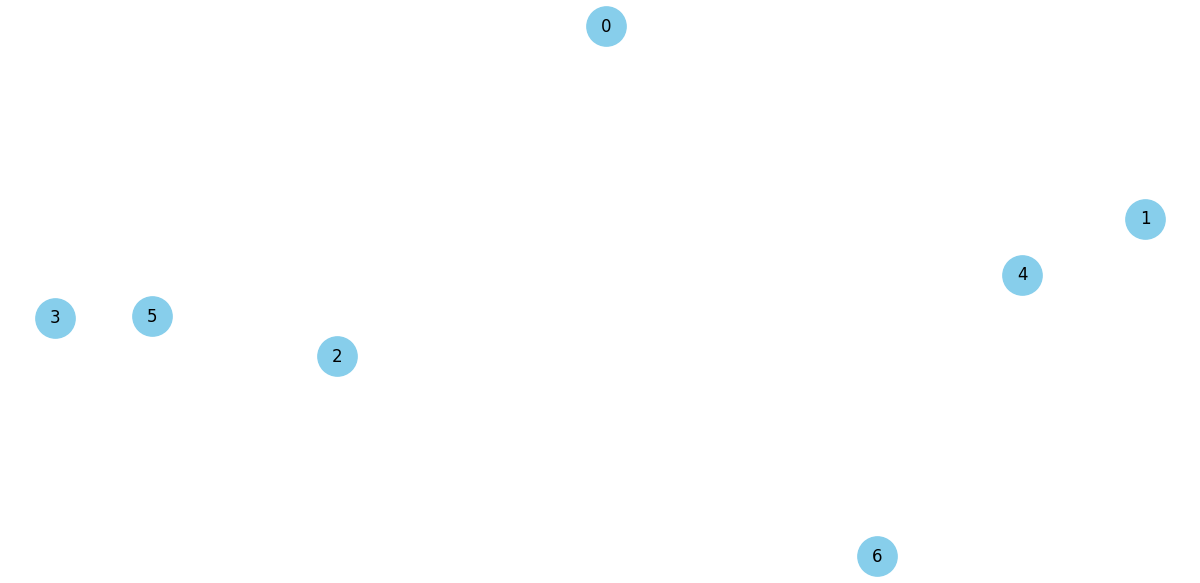
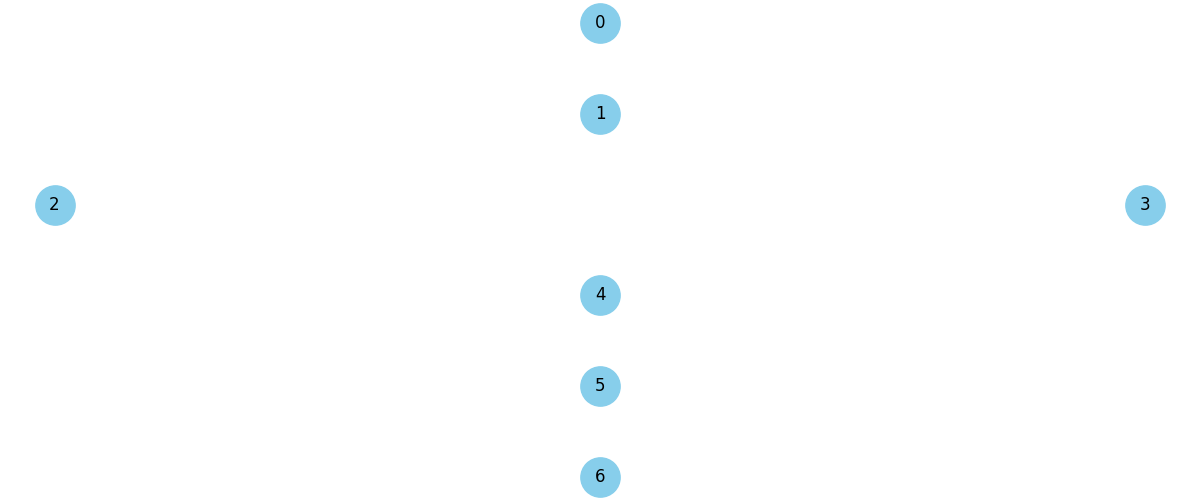
bug fixed

diff --git a/neuron_connectivity.py b/neuron_connectivity.py
@@ -1,5 +1,3 @@
-# latency_corr_graph.py
-
 import os
 import numpy as np
 import matplotlib.pyplot as plt
@@ -78,16 +76,53 @@ def draw_graph(neuron_count, matrix, label, fname, threshold=0.5):
             if abs(value) > threshold:
                 G.add_edge(i, j, weight=value)
 
-    pos = nx.spring_layout(G, seed=42, k=10 / np.sqrt(neuron_count), iterations=100)
-    for i in pos:
-        x, y = pos[i]
-        pos[i] = (x, 0.7 * y - 0.3 * i)  # Small index goes up
+    # === Electrode-based layered layout ===
+    electrode_layers = {}
+    for idx, (tt, _) in enumerate(neuron_map):  # use global neuron_map
+        if tt not in electrode_layers:
+            electrode_layers[tt] = []
+        electrode_layers[tt].append(idx)
 
+    pos = {}
+    sorted_electrodes = sorted(electrode_layers.keys())
+    layer_y = {}
+    for layer_idx, tt in enumerate(sorted_electrodes):
+        neurons = electrode_layers[tt]
+        x_start = - (len(neurons) - 1) / 2
+        y = -layer_idx
+        layer_y[tt] = y
+        for i, nid in enumerate(neurons):
+            x = x_start + i
+            pos[nid] = (x, y)
+
+    # === Draw Graph with Edge Width by Correlation ===
     edge_labels = nx.get_edge_attributes(G, 'weight')
-    plt.figure(figsize=(12, neuron_count / 1.2))  # zoom in
-    nx.draw(G, pos, with_labels=True, node_color='skyblue', edge_color='gray', node_size=800)
-    nx.draw_networkx_edge_labels(G, pos, edge_labels={k: f"{v:.2f}" for k, v in edge_labels.items()}, font_size=8)
+    weights = []
+    for (u, v) in G.edges():
+        w = abs(G[u][v]['weight'])
+        weights.append(0.1 + 10 * w)  # range：0.5 ~ 4.0
+
+    plt.figure(figsize=(12, max(5, neuron_count / 2.5)))
+    nx.draw(
+        G, pos,
+        with_labels=True,
+        node_color='skyblue',
+        edge_color='gray',
+        width=weights,
+        node_size=800
+    )
+    nx.draw_networkx_edge_labels(
+        G, pos,
+        edge_labels={k: f"{v:.2f}" for k, v in edge_labels.items()},
+        font_size=8
+    )
+
+    # === Add Electrode Labels ===
+    for tt in sorted_electrodes:
+        plt.text(-5, layer_y[tt], f"TT{tt}", fontsize=10, verticalalignment='center', horizontalalignment='right')
+
     plt.title(label)
+    plt.axis('off')
     plt.tight_layout()
     plt.savefig(fname)
     plt.close()
@@ -99,6 +134,7 @@ def analyze_file(fname):
         print("[WARN] Empty session")
         return
 
+    global neuron_map
     neuron_map = build_neuron_map(T[0])
     all_spikes, stim_ons = [], []
     for trial in T:
@@ -114,9 +150,12 @@ def analyze_file(fname):
 
     log_corr = compute_log_corr_matrix(all_spikes, stim_ons, window=(0, 0.5))
     neuron_count = len(neuron_map)
-    draw_graph(neuron_count, log_corr, "Log Correlation Graph",
-               os.path.join(output_dir, f"log_corr_graph_{os.path.splitext(fname)[0]}.png"),
-               threshold=0.5)
+    draw_graph(
+        neuron_count, log_corr,
+        "Log Correlation Graph",
+        os.path.join(output_dir, f"log_corr_graph_{os.path.splitext(fname)[0]}.png"),
+        threshold=0.5
+    )
 
 def main():
     files = [f for f in os.listdir("./data") if f.endswith(".mat")]

diff --git a/fr_recording.py b/fr_recording.py
@@ -1,4 +1,4 @@
-# fr_recording.py（任务 1–4：补充 histogram debug 打印）
+# fr_recording.py task1-4
 import os
 import numpy as np
 import matplotlib.pyplot as plt
@@ -51,19 +51,36 @@ def build_neuron_map(trial):
                 neuron_map.append((tt, 0))
     return neuron_map
 
-def compute_population_rate(spike_trials, bin_size=0.01, duration=1.0):
+def compute_trialwise_population_rate(spike_trials, bin_size=0.01, duration=1.0):
+    """
+    Computes the trial-averaged population firing rate.
+
+    Parameters:
+        spike_trials: list of shape [neuron][trial], each element contains spike times (aligned)
+        bin_size: bin width in seconds
+        duration: total duration of window
+
+    Returns:
+        rate: 1D array of average firing rate (Hz) per time bin
+    """
+    num_trials = len(spike_trials[0])  # assume all neurons have same number of trials
+    num_neurons = len(spike_trials)
     num_bins = int(duration / bin_size)
-    rate = np.zeros(num_bins)
-    count = 0
-    for neuron_trials in spike_trials:
-        for spikes in neuron_trials:
+
+    all_trial_rates = np.zeros((num_trials, num_bins))
+
+    for t in range(num_trials):
+        trial_hist = np.zeros(num_bins)
+        for n in range(num_neurons):
+            spikes = spike_trials[n][t]
             hist, _ = np.histogram(spikes, bins=num_bins, range=(0, duration))
-            rate += hist
-            count += 1
-    if count > 0:
-        rate = rate / count
-        rate /= bin_size
-    return rate
+            trial_hist += hist
+        trial_hist = trial_hist / num_neurons       # average across neurons
+        trial_hist = trial_hist / bin_size          # convert to Hz
+        all_trial_rates[t] = trial_hist             # store for trial t
+
+    return np.mean(all_trial_rates, axis=0)         # average across trials
+
 
 def plot_raster_and_rate(all_spikes, align_times, neuron_map, fname, label, window, output_dir):
     import matplotlib.gridspec as gridspec
@@ -107,7 +124,7 @@ def plot_raster_and_rate(all_spikes, align_times, neuron_map, fname, label, wind
     ax_raster.set_yticks(ytick_positions)
     ax_raster.set_yticklabels([f"{i}" for i in range(num_neurons)])
 
-    rate = compute_population_rate(pop_spikes, bin_size=bin_size, duration=duration)
+    rate = compute_trialwise_population_rate(pop_spikes, bin_size=bin_size, duration=duration)
     ax_rate.plot(time_bins[:len(rate)], rate, color="black")
     ax_rate.fill_between(time_bins[:len(rate)], 0, rate, alpha=0.3)
     ax_rate.set_ylabel("Rate (Hz)")
